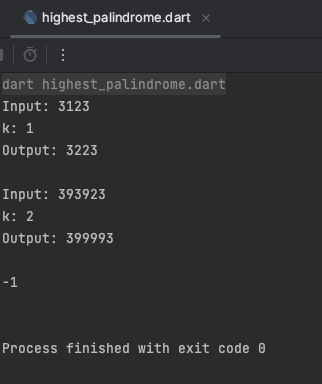
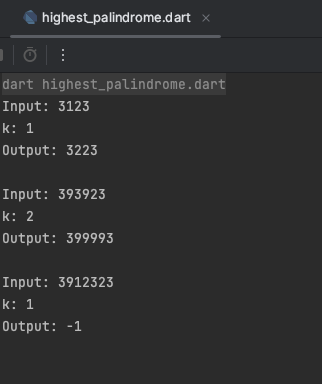
update output format for highets palindrome

diff --git a/highest_palindrome.dart b/highest_palindrome.dart
@@ -74,7 +74,9 @@ void main() {
       print("k: $k");
       print("Output: $result\n");
     } else {
-      print("-1\n");
+      print("Input: $input");
+      print("k: $k");
+      print("Output: -1\n");
     }
   }
 }
